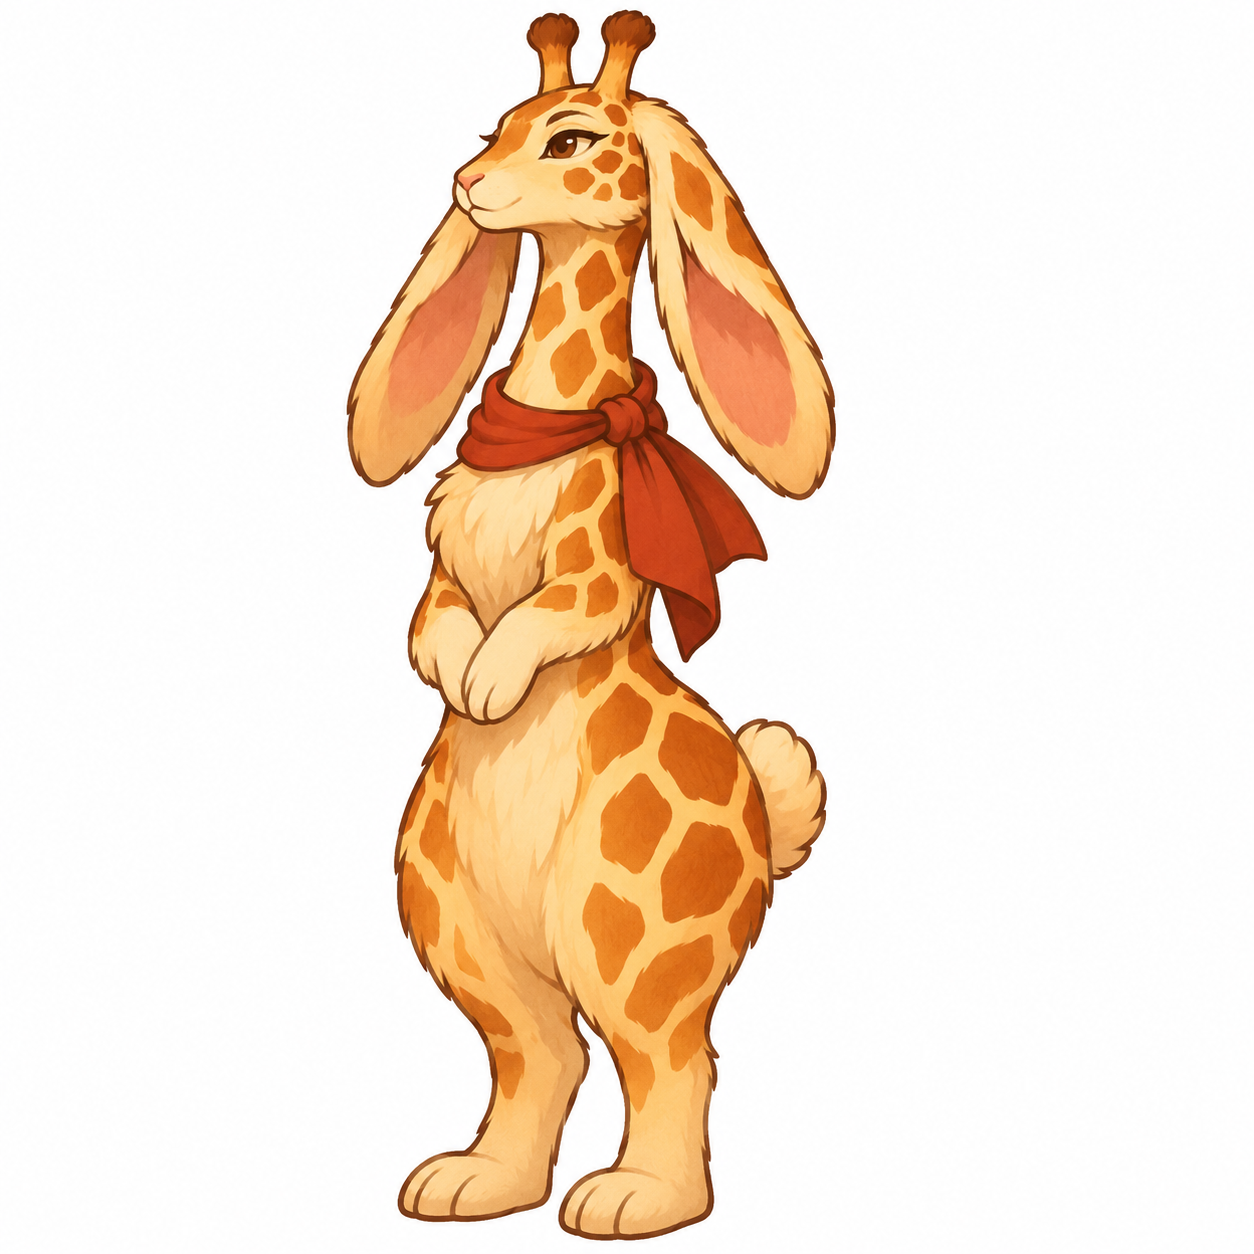
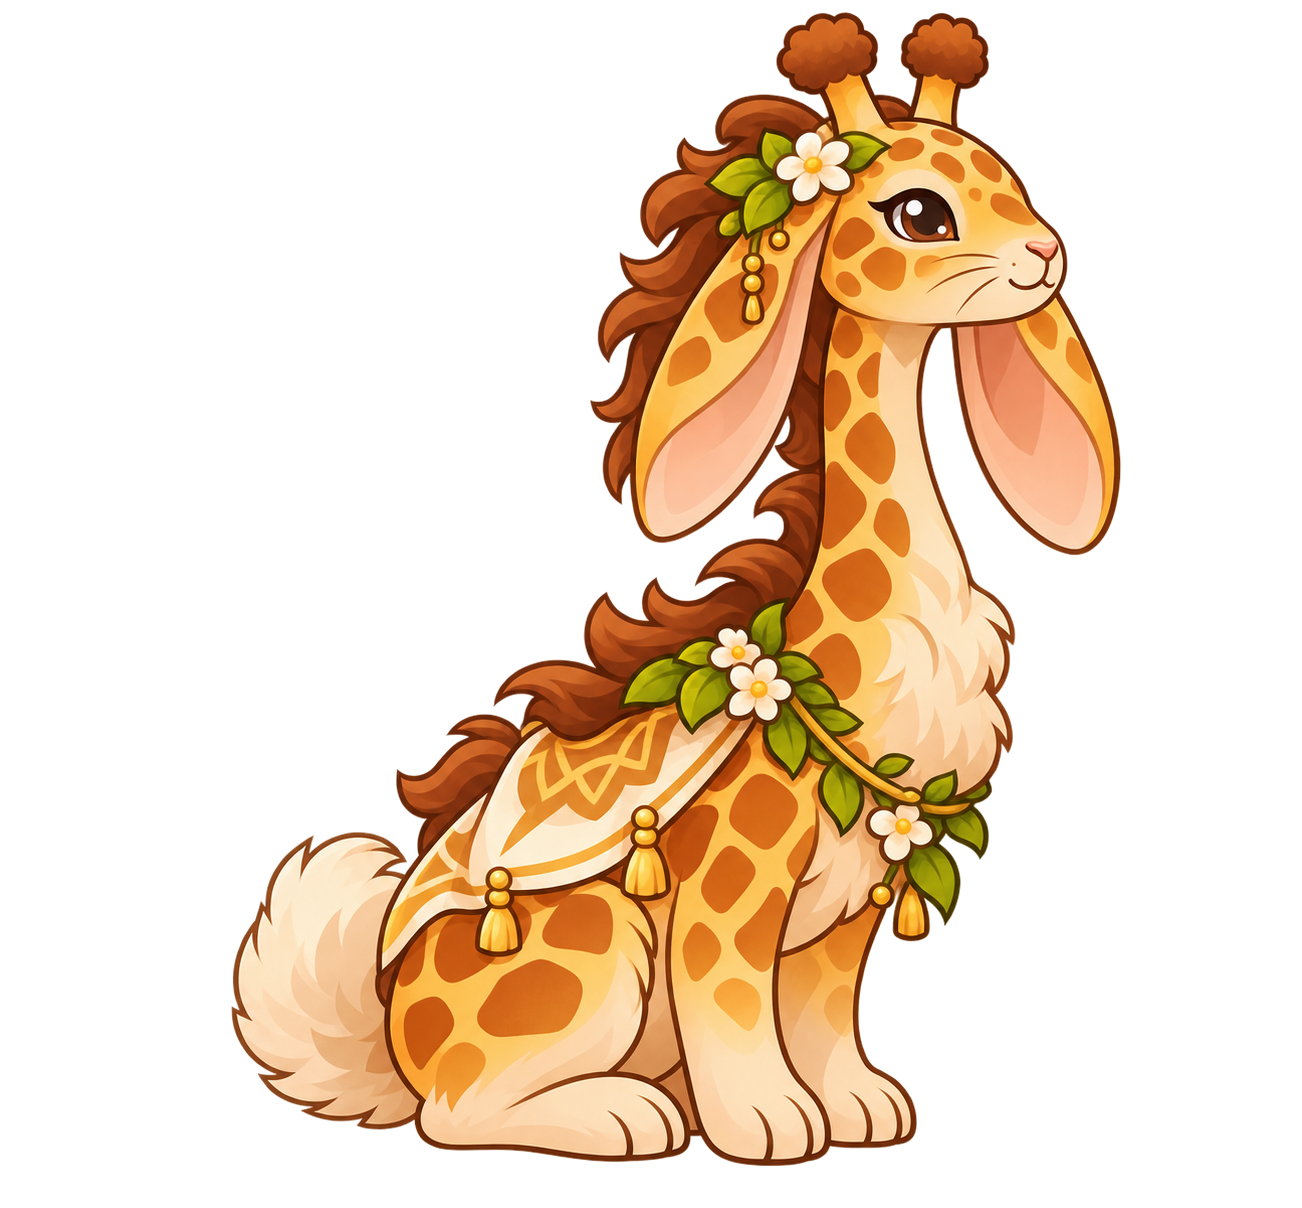
Gigi-rarafe : les dessins du propriétaire, premier stade et évolution
Les deux stades viennent des dessins du propriétaire (déjà détourés),
tournés vers la droite comme ses dessins, à la même surface à l'écran
qu'avant. Toque, bavoir et lunettes de cuisine replacés sur la tête.

diff --git a/src/config/species.ts b/src/config/species.ts
@@ -86,7 +86,7 @@ const REGISTRY = [
   {id: 'calinou', name: 'Câlinou géant', description: 'Un lapin angora géant, blanc et rosé, à la fourrure en nuage, avec un ruban rose sur l’oreille.', types: ['paille', 'metal'], rarity: 'epic', acquisition: [{kind: 'recipe', knowledgePrice: 450, requiredTypes: ['paille', 'metal'], minAffection: 6, probability: 10}], art: {kind: 'static-sprite', file: 'assets/rabbits/calinou/calinou-v1.png', texture: 'rabbit-calinou-original-v1', width: 575, height: 575, worldWidth: 78, groundY: 12, preloadOrder: 34}, progression: {unlockLevel: 11}},
   // Christmas update (owner, 5 November 2026): Gigi-rarafe (concept B « Girafe coucher de soleil »), then the three Christmas
   // rabbits (Yetiti A, Rennes A, Susucre B): `event: 'christmas'` rabbits are born only while the Christmas event is on, and stay.
-  {id: 'gigi-rarafe', name: 'Gigi-rarafe', description: 'Un lapin bélier girafe au très long cou, aux taches orange feu et aux petites cornes duveteuses.', types: ['paille', 'feu'], rarity: 'epic', acquisition: [{kind: 'recipe', knowledgePrice: 450, requiredTypes: ['paille', 'feu'], minAffection: 6, probability: 10}], art: {kind: 'static-sprite', file: 'assets/rabbits/gigi-rarafe/gigi-rarafe-v1.png', texture: 'rabbit-gigi-rarafe-original-v1', width: 296, height: 611, worldWidth: 40.1, groundY: 12, preloadOrder: 38, facing: 'left'}, progression: {unlockLevel: 11}},
+  {id: 'gigi-rarafe', name: 'Gigi-rarafe', description: 'Un lapin bélier girafe au très long cou, aux taches orange feu et aux petites cornes duveteuses.', types: ['paille', 'feu'], rarity: 'epic', acquisition: [{kind: 'recipe', knowledgePrice: 450, requiredTypes: ['paille', 'feu'], minAffection: 6, probability: 10}], art: {kind: 'static-sprite', file: 'assets/rabbits/gigi-rarafe/gigi-rarafe-v1.png', texture: 'rabbit-gigi-rarafe-original-v1', width: 383, height: 472, worldWidth: 51.9, groundY: 12, preloadOrder: 38}, progression: {unlockLevel: 11}},
   {id: 'yetiti', name: 'Yetiti', event: 'christmas', description: 'Un très grand lapin yéti au pelage blanc dense, au visage et aux coussinets bleu ardoise.', types: ['neige', 'paille'], rarity: 'epic', acquisition: [{kind: 'recipe', knowledgePrice: 450, requiredTypes: ['neige', 'paille'], minAffection: 6, probability: 10}], art: {kind: 'static-sprite', file: 'assets/rabbits/yetiti/yetiti-v1.png', texture: 'rabbit-yetiti-original-v1', width: 448, height: 710, worldWidth: 60.8, groundY: 12, preloadOrder: 39}, progression: {unlockLevel: 11}},
   {id: 'rennes', name: 'Rennes', event: 'christmas', description: 'Un lapin renne aux grands bois, au nez rouge, avec son harnais à grelots pour tirer le traîneau.', types: ['vol', 'metal'], rarity: 'epic', acquisition: [{kind: 'recipe', knowledgePrice: 450, requiredTypes: ['vol', 'metal'], minAffection: 6, probability: 10}], art: {kind: 'static-sprite', file: 'assets/rabbits/rennes/rennes-v1.png', texture: 'rabbit-rennes-original-v1', width: 383, height: 484, worldWidth: 51.9, groundY: 12, preloadOrder: 40}, progression: {unlockLevel: 11}},
   {id: 'susucre', name: 'Susucre', event: 'christmas', description: 'Un lapin sucre d’orge rayé rouge et vert menthe, avec un nœud doré et une oreille en crosse.', types: ['paille', 'feu'], rarity: 'epic', acquisition: [{kind: 'recipe', knowledgePrice: 450, requiredTypes: ['paille', 'feu'], minAffection: 6, probability: 10}], art: {kind: 'static-sprite', file: 'assets/rabbits/susucre/susucre-v1.png', texture: 'rabbit-susucre-original-v1', width: 369, height: 487, worldWidth: 50, groundY: 12, preloadOrder: 41}, progression: {unlockLevel: 11}},

diff --git a/tests/rabbit-art-fixtures.ts b/tests/rabbit-art-fixtures.ts
@@ -74,7 +74,7 @@ export const NEW_SPECIALS: readonly SpecialSheet[] = [
   // Original concept B « Nuage géant » chosen by the owner on 31 October 2026: a giant, 1.5 times a round rabbit's width.
[1 lines of base64/hex data omitted]
   // Christmas update (5 November 2026), painted concepts chosen by the owner. Yetiti, Rennes and Susucre are born only during Christmas.
[5 lines of base64/hex data omitted]

diff --git a/src/config/evolvedArt.ts b/src/config/evolvedArt.ts
@@ -94,7 +94,7 @@ export const EVOLVED_ART: readonly EvolvedSprite[] = [
   {id: 'requin', name: 'Roi des Océans', file: 'assets/rabbits/requin/requin-v2.png', texture: 'rabbit-requin-evolved-v2', width: 465, height: 484, worldWidth: 54.8, groundY: 12},
   // The Christmas update's thirteen rabbits (5 and 6 November 2026), painted in the same pose as their first drawing.
   {id: 'vantablack', name: 'Braise d’encre', file: 'assets/rabbits/vantablack/vantablack-v2.png', texture: 'rabbit-vantablack-evolved-v2', width: 434, height: 482, worldWidth: 51.2, groundY: 12},
-  {id: 'gigi-rarafe', name: 'Reine de la savane', file: 'assets/rabbits/gigi-rarafe/gigi-rarafe-v2.png', texture: 'rabbit-gigi-rarafe-evolved-v2', width: 311, height: 767, worldWidth: 36.6, groundY: 12, facing: 'left'},
+  {id: 'gigi-rarafe', name: 'Reine de la savane', file: 'assets/rabbits/gigi-rarafe/gigi-rarafe-v2.png', texture: 'rabbit-gigi-rarafe-evolved-v2', width: 429, height: 554, worldWidth: 50.6, groundY: 12},
   {id: 'yetiti', name: 'Gardien des neiges', file: 'assets/rabbits/yetiti/yetiti-v2.png', texture: 'rabbit-yetiti-evolved-v2', width: 538, height: 785, worldWidth: 63.4, groundY: 12, facing: 'left'},
   {id: 'rennes', name: 'Chef de l’attelage', file: 'assets/rabbits/rennes/rennes-v2.png', texture: 'rabbit-rennes-evolved-v2', width: 444, height: 552, worldWidth: 52.3, groundY: 12},
   {id: 'susucre', name: 'Sucre glacé', file: 'assets/rabbits/susucre/susucre-v2.png', texture: 'rabbit-susucre-evolved-v2', width: 444, height: 533, worldWidth: 52.4, groundY: 12},

diff --git a/src/config/cuisineAnchors.ts b/src/config/cuisineAnchors.ts
@@ -56,7 +56,7 @@ export const CUISINE_ANCHORS: Partial<Record<SpeciesId, CuisineAnchors>> = {
   benny: a([.58, .22, .36, 6], [.7, .56, .3], [.66, .37, .3]),
   // The Christmas update's rabbits (5 November 2026), read on 10 % grids of their v1 sprites, checked on captures (6 November 2026).
   vantablack: a([.68, .24, .34, 6], [.72, .5, .3], [.73, .37, .3]),
-  'gigi-rarafe': a([.42, .09, .3, -4], [.42, .33, .28], [.42, .17, .28]),
+  'gigi-rarafe': a([.7, .12, .3, 8], [.68, .5, .26], [.72, .24, .24]),
   yetiti: a([.62, .08, .36, 4], [.68, .34, .28], [.66, .2, .26]),
   rennes: a([.66, .28, .3, 4], [.7, .56, .28], [.7, .43, .26]),
   susucre: a([.72, .3, .34, 6], [.78, .56, .3], [.79, .43, .28]),
@@ -123,7 +123,7 @@ export const EVOLVED_CUISINE_ANCHORS: Partial<Record<SpeciesId, CuisineAnchors>>
   'pain-epice': a([.81, .3, .26, 2], [.84, .535, .22], [.86, .405, .18]),
   'flocon-cristal': a([.62, .14, .34, 4], [.64, .45, .28], [.66, .3, .28]),
   vantablack: a([.745, .3, .2, 4], [.865, .57, .2], [.86, .385, .18]),
-  'gigi-rarafe': a([.4, .09, .28, -4], [.45, .33, .26], [.42, .15, .26]),
+  'gigi-rarafe': a([.79, .12, .26, 8], [.73, .43, .22], [.81, .185, .22]),
   yetiti: a([.38, .1, .3, -4], [.4, .33, .3], [.4, .2, .24]),
   rennes: a([.72, .255, .28, 4], [.79, .45, .24], [.79, .35, .22]),
   susucre: a([.7, .28, .34, 6], [.74, .58, .3], [.76, .44, .28]),
